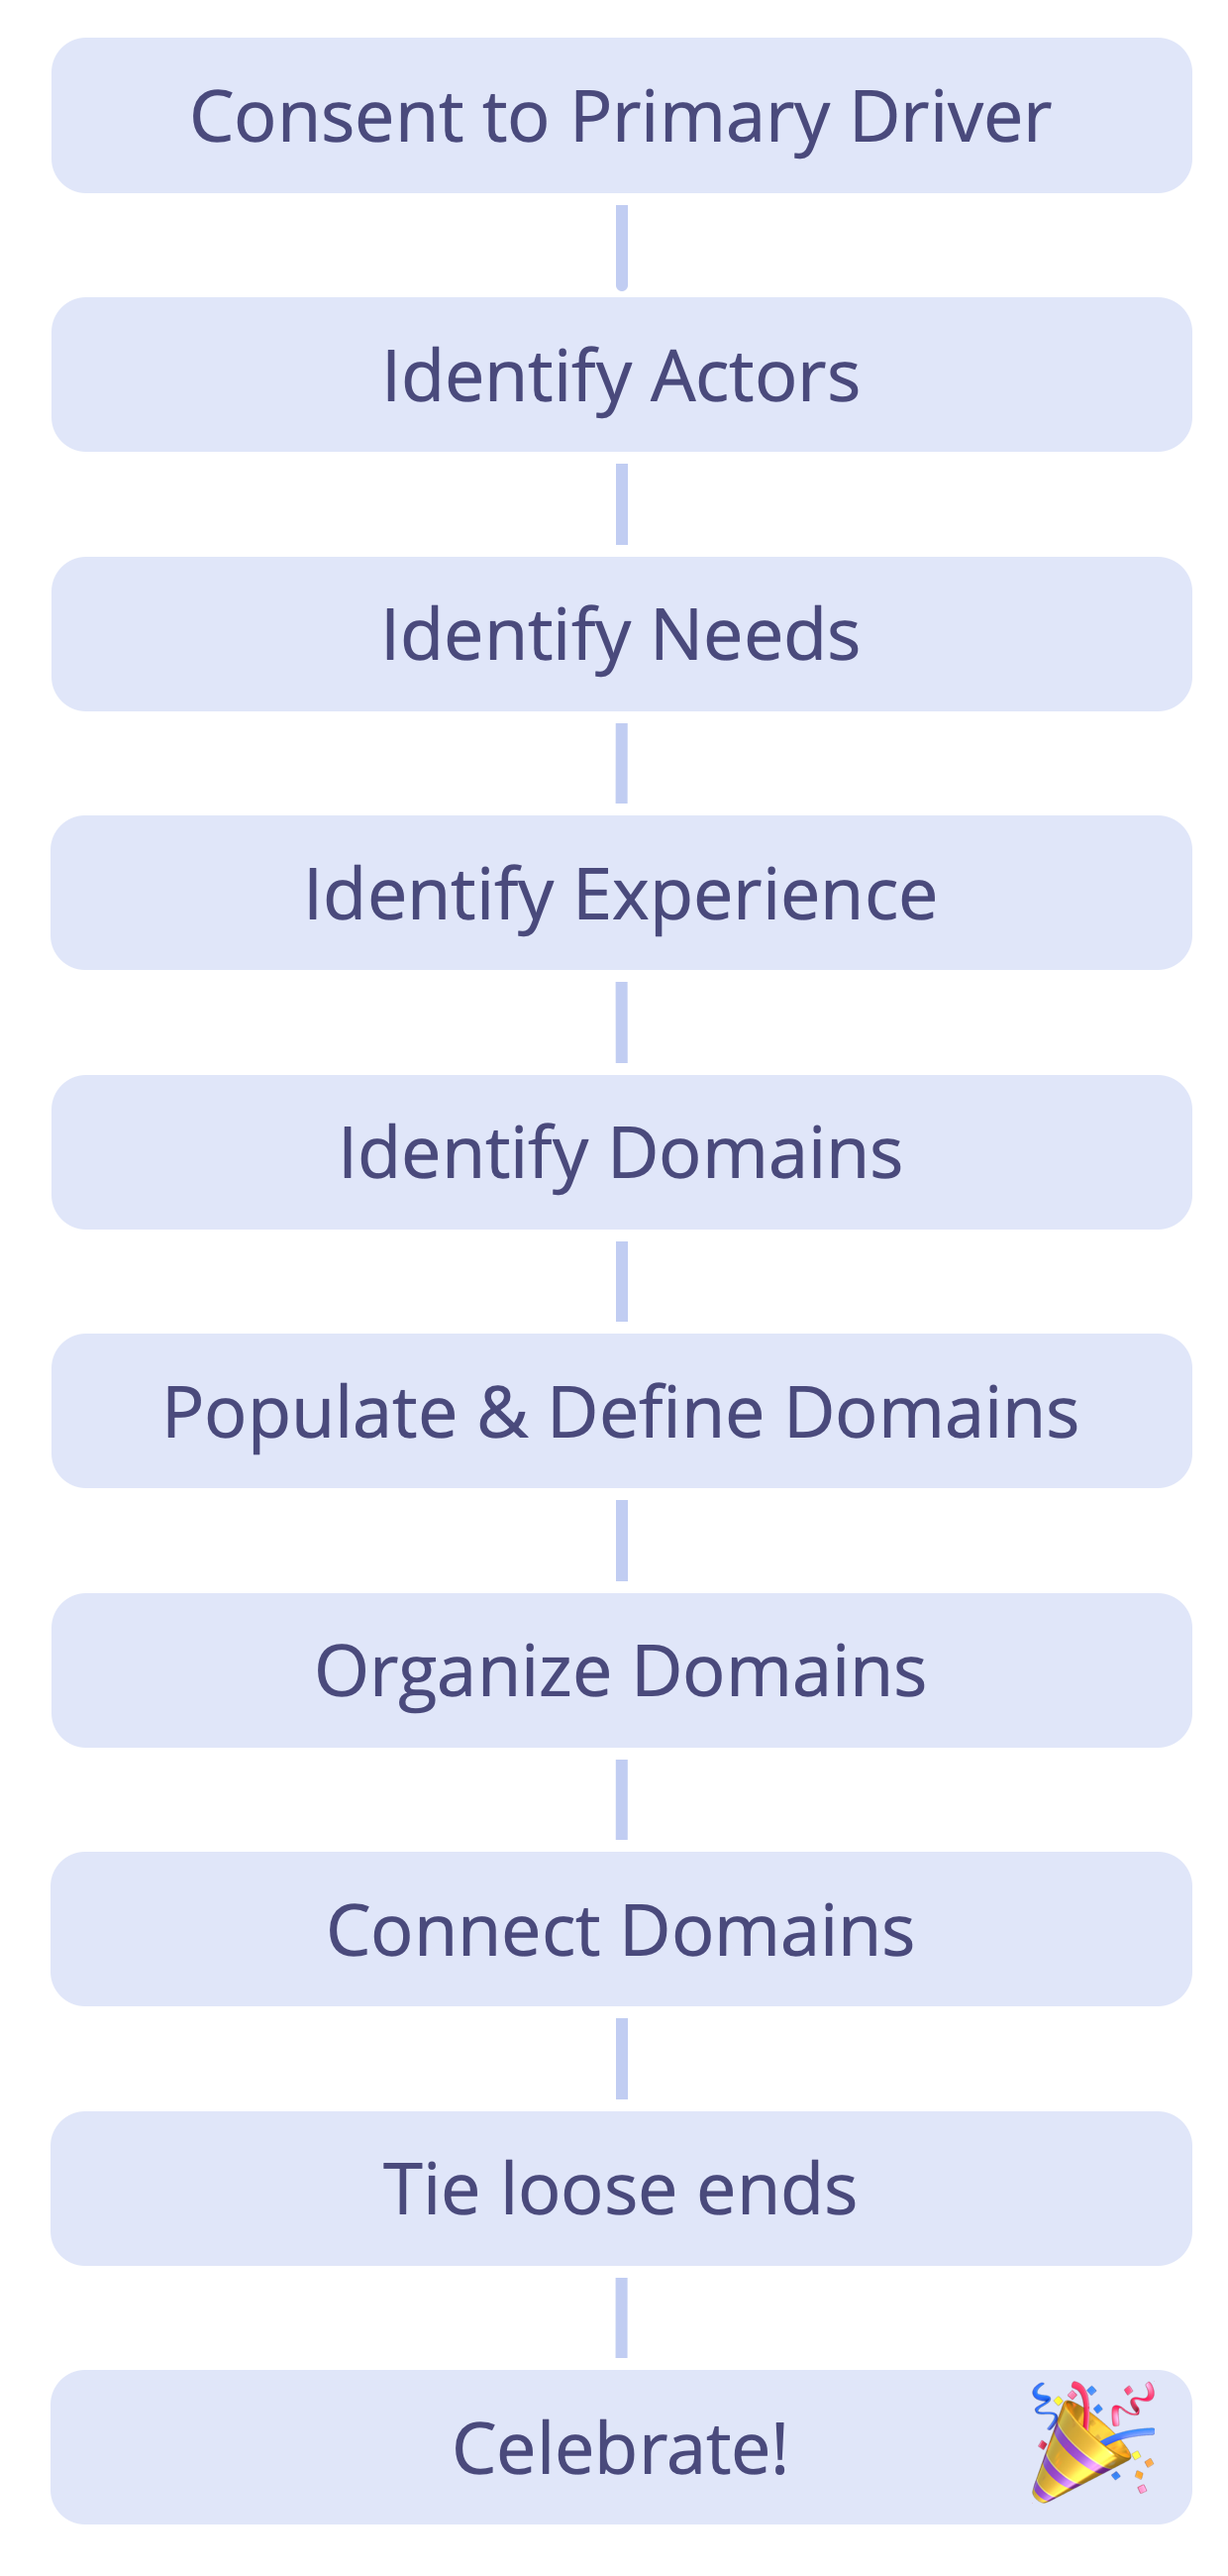
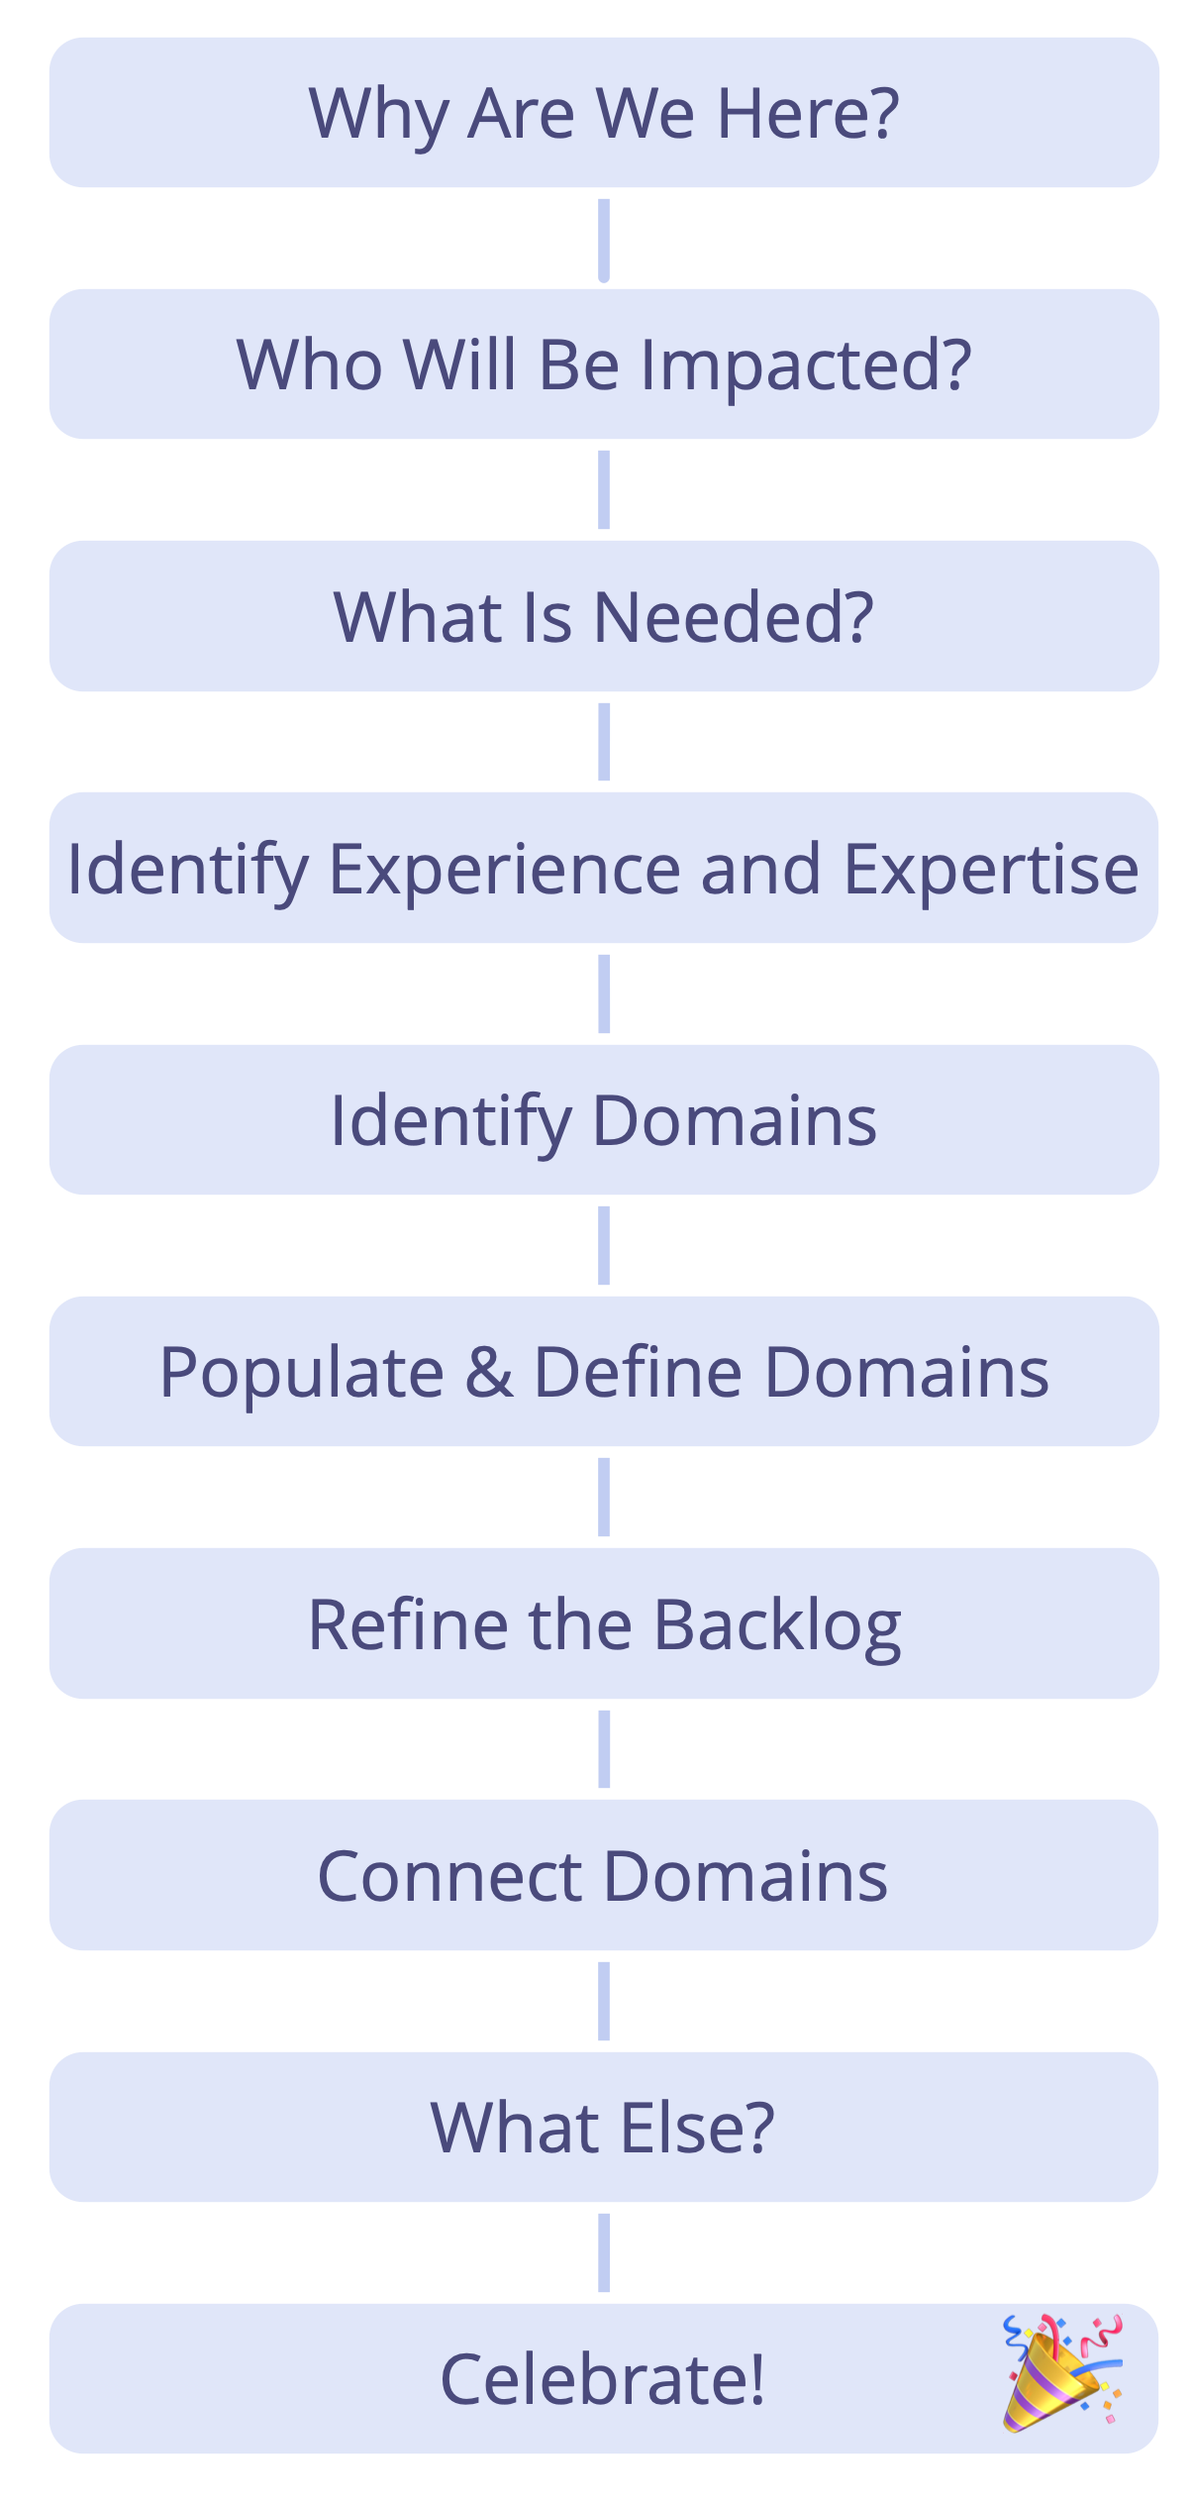
Driver Mapping: added extended pattern description

diff --git a/content/src/patterns/co-creation-and-evolution/driver-mapping.md b/content/src/patterns/co-creation-and-evolution/driver-mapping.md
@@ -1,9 +1,160 @@
 # Driver Mapping
 
-A workshop format to identify an effective response to a complex situation: organize start-ups, kick-off projects, tackle major impediments or opportunities, develop organizational structure to better enable the [flow of value](glossary:flow-of-value).
+<summary>
+**A workshop format for large groups to co-create and organize themselves in response to a complex situation of significant scope and scale.**
+</summary>
 
-A (small or large) group identifies and clusters [drivers](glossary:driver), to then progress quickly from concept to action in smaller and self-organizing teams.
+During the workshop stakeholders take full ownership of the process from start to finish, as they progress quickly from concept to fully functioning collaboration.
+
+Identify relevant stakeholders, map out related requirements and use them to identify work items and decisions that need to be made, distribute work and define an initial structure for collaboration.
+
+You can use Driver Mapping to:
+
+-   organize start-ups, 
+-   kick-off projects, 
+-   tackle major impediments or opportunities, 
+-   implement strategy
+-   develop organizational structure to better enable the flow of value.
+
+The outcome of a driver mapping workshop is typically:
+
+-   a distribution of work, categorised in a number of domains, centred around the needs of stakeholders. 
+-   a bespoke organizational structure that brings it all together, including interlinking domains for managing dependencies.
+-   a first draft of prioritized governance and operations backlogs for each identified subdomain.
+-   delegation of influence and the distribution of people to the subdomains through self-selection and nomination.
+
+Although Driver Mapping is often used for identifying and defining new domains, there are also applications for identifying and distributing governance and operational drivers among existing domains in an organization, e.g. when an initiative will be dealt with by existing teams in an organization, or if a group feels they’re stuck in their current structure and are looking for inspiration for how to incrementally adapt it. The group can decide if they would map to existing domains and figure out which new ones they’d need to create, or even create a new structure from scratch.
+
+In a small team or circle (max. 6-8 people), when it’s not a priority to distribute work, the team might only use steps 1-5, to understand the scope and fill the operations and governance backlog, and then use proposal forming or some other approach for identifying strategy and/or next steps.
+
+In preparation:
+
+-   Invite people that can make a relevant contribution to this project. Send out the agenda for the workshop ahead of time. 
+-   Send out the primary you'll work with, and in case of an existing domain, the domain description for the project/initiative in advance so people can familiarize themselves with it. Aim to resolve any objections before the workshop.
+-   Attendees may already prepare by thinking through and recording ideas of actors and relating needs.
+-   Prepare a poster with the domain description to present in the first step. You will also need A5 and rectangular sticky notes, pens and a wide wall to work. 
+
+
+## The Driver Mapping Process:
+
+These are the steps to follow:
 
 ![Driver Mapping: Process](img/process/driver-mapping.png)
 
+
+### 1. Why are we here?
+
+_Present and consent to the primary driver_
+
+-   Present the primary driver to the group 
+-   Consent to the driver – _Is this a clear enough description of the driver? Is it relevant for us to respond to_?
+-   Clarify any existing constraints from the delegator, e.g. budget, due date, expectations, etc. In the case of an existing domain, present the domain description.Invite further questions that help deepen understanding about what's happening and what's needed. 
+-   Make explicit the level of commitment expected from the participants. E.g. people are expected to be here for the duration of the workshop only, or for the duration of the initiative, etc.
+-   Record any relevant information that comes up.
+
+
+### 2. Who will be impacted? 
+
+_Who will be impacted as we respond to the primary driver? Consider who can help / stand in the way / benefit / lose or be harmed._
+
+-   List actors on sticky notes and display them on a board
+-   Focus on actual people that will be impacted by this initiative (groups or individuals), and avoid making assumptions about future roles (such as _Project Manager_) or other domains (e.g. _Marketing_) at this stage.
+
+
+### 3. What is needed?
+
+_Consider the various actors and describe what is needed: what do they need in context of the primary driver, and what do we need from them?_
+
+-   Write each suggestion on a separate sticky note (need card)
+-   Describe the need as well as the anticipated impact of responding to that need
+-   Use the format _"We/they need … so that …"_
+-   Add the name of the actor in the top left corner of the card
+-   Add your name in the top right corner of the card
+
+![Driver Mapping: A Need Card](img/templates/need-card.png)
+
+
+### 4. Identify experience and expertise
+
+_Identify who has experience or expertise in responding to these needs, so that later, when people respond to a specific need, they know who might have valuable input._
+
+-   Take time to familiarize yourself with the various _need cards_.
+-   Add your name to those _need cards_ you have experience with, or ideas how to address, so that later in the process people can consult with you if helpful. 
+-   Consider adding names of people who are not present if you think they would have a valuable contribution to make.
+-   Write the name(s) of these people at the bottom of the _need card_.
+-   Adding your name to a card in this step, doesn’t mean you’re taking responsibility for the need, only that you’re able and willing to contribute to finding a solution if that’s helpful later.
+
+
+### 5. Identify Domains
+
+_Cluster actors and/or needs according to relevance, into coherent **domains** as a starting point to sorting and prioritizing needs. Consider how to optimize end-to-end delivery of value to the various actors that you identified in step 2._
+
+Ways to identify domains:
+
+-   Cluster groups of similar actors (actor-centric)
+-   Cluster groups of similar needs (needs-centric)
+-   A combination of both (of the above) is common
+
+Consider this step complete, as soon as you’ve agreed on a first iteration of a meaningful distribution of work. Remember, you can make changes to the domains you defined at any time (later during the workshop or afterward), so you only need to aim for something that’s good enough to start. 
+
+_As a facilitator, gently support the group in self-organizing, and be mindful of people dropping out of the conversation. This process often includes a phase that appears chaotic to some participants, which might make them feel uncomfortable. To test if a result is achieved, ask for objections to the domains being good enough for now._
+
+
+### 6. Populate & define Domains
+
+_People organize into smaller teams around the different domains, then define the domain and give it a name._
+
+-   Form small team around the domains according to experience and interest
+-   Add at least 1 or 2 people with expertise first. Use the information on the cards, 
+-   Check all domains are sufficiently accounted for 
+-   In each group:
+    -   agree on a name for the domain.
+    -   define the primary driver for the domain (and draft a brief domain description if helpful). 
+-   Finally, have each group briefly present their domain, and during each report look out for dependencies and any overlap of these domains.
+
+In this phase some people might wander between domains until they find one they feel they can contribute to.
+
+
+### 7. Refine the Backlogs
+
+_Organize the work that lies ahead in each domain, ensure things are prioritized and described clearly._
+
+-   For each domain, copy the template below to a flip chart
+-   Sort all remaining needs into the two backlogs on the flip chart:
+    -   operations backlog: needs that can be acted
+    -   governance backlog: needs that would benefit from or necessitate a decision
+-   Combine and rephrase cards as necessary, so that description on each card is clear. Consult the author of the card when in doubt.
+-   Prioritize the cards in each board.
+-   Archive any “needs” cards that appear superfluous.
+-   Consider the domain and describe and prioritize other needs that may not have been identified.
+-   Pass on cards that appear to be the accountability of another domain to address.
+-   Add cards concerning multiple domains to a dedicated backlog to address later.
+
+_As a facilitator of the driver mapping process, provide a space to collect cards concerning multiple domains so that they can be addressed later. _
+
+Regularly pause to share reports between the various domains. Note: Some domains might dissolve, change or merge with others.
+
 ![Driver Mapping: A template for domains](img/templates/domain-template.png)
+
+### 8. Connect Domains
+
+_Create structure to manage dependencies and deal with matters that extend beyond the scope of one domain or concern the wider organization_
+
+-   For a new organization or project, consider [Delegate Circles](section:delegate-circle), [ Service Circles](section:service-circle) or [Double-linking between domains](section:double-linking).
+-   For an existing organization, also consider connecting to existing domains in the organization.
+
+
+### 9. What else?
+
+_Take a moment to check if anything’s missing._ 
+
+What else do we need to consider…
+
+-   …to run safely?
+-   …to address the primary driver? 
+
+
+### 10. Celebrate!
+
+_Take a moment to celebrate your achievements in getting your organization or initiative started!_
+	

diff --git a/content/src/appendix/changelog.md b/content/src/appendix/changelog.md
@@ -1,5 +1,8 @@
 # Changelog
 
+## Changes 2021-02-11
+
+* [Driver Mapping](section:driver-mapping): added explanation about applications of the pattern, and detailed instructions for each step of the format
 
 ## Changes 2021-02-06
 
